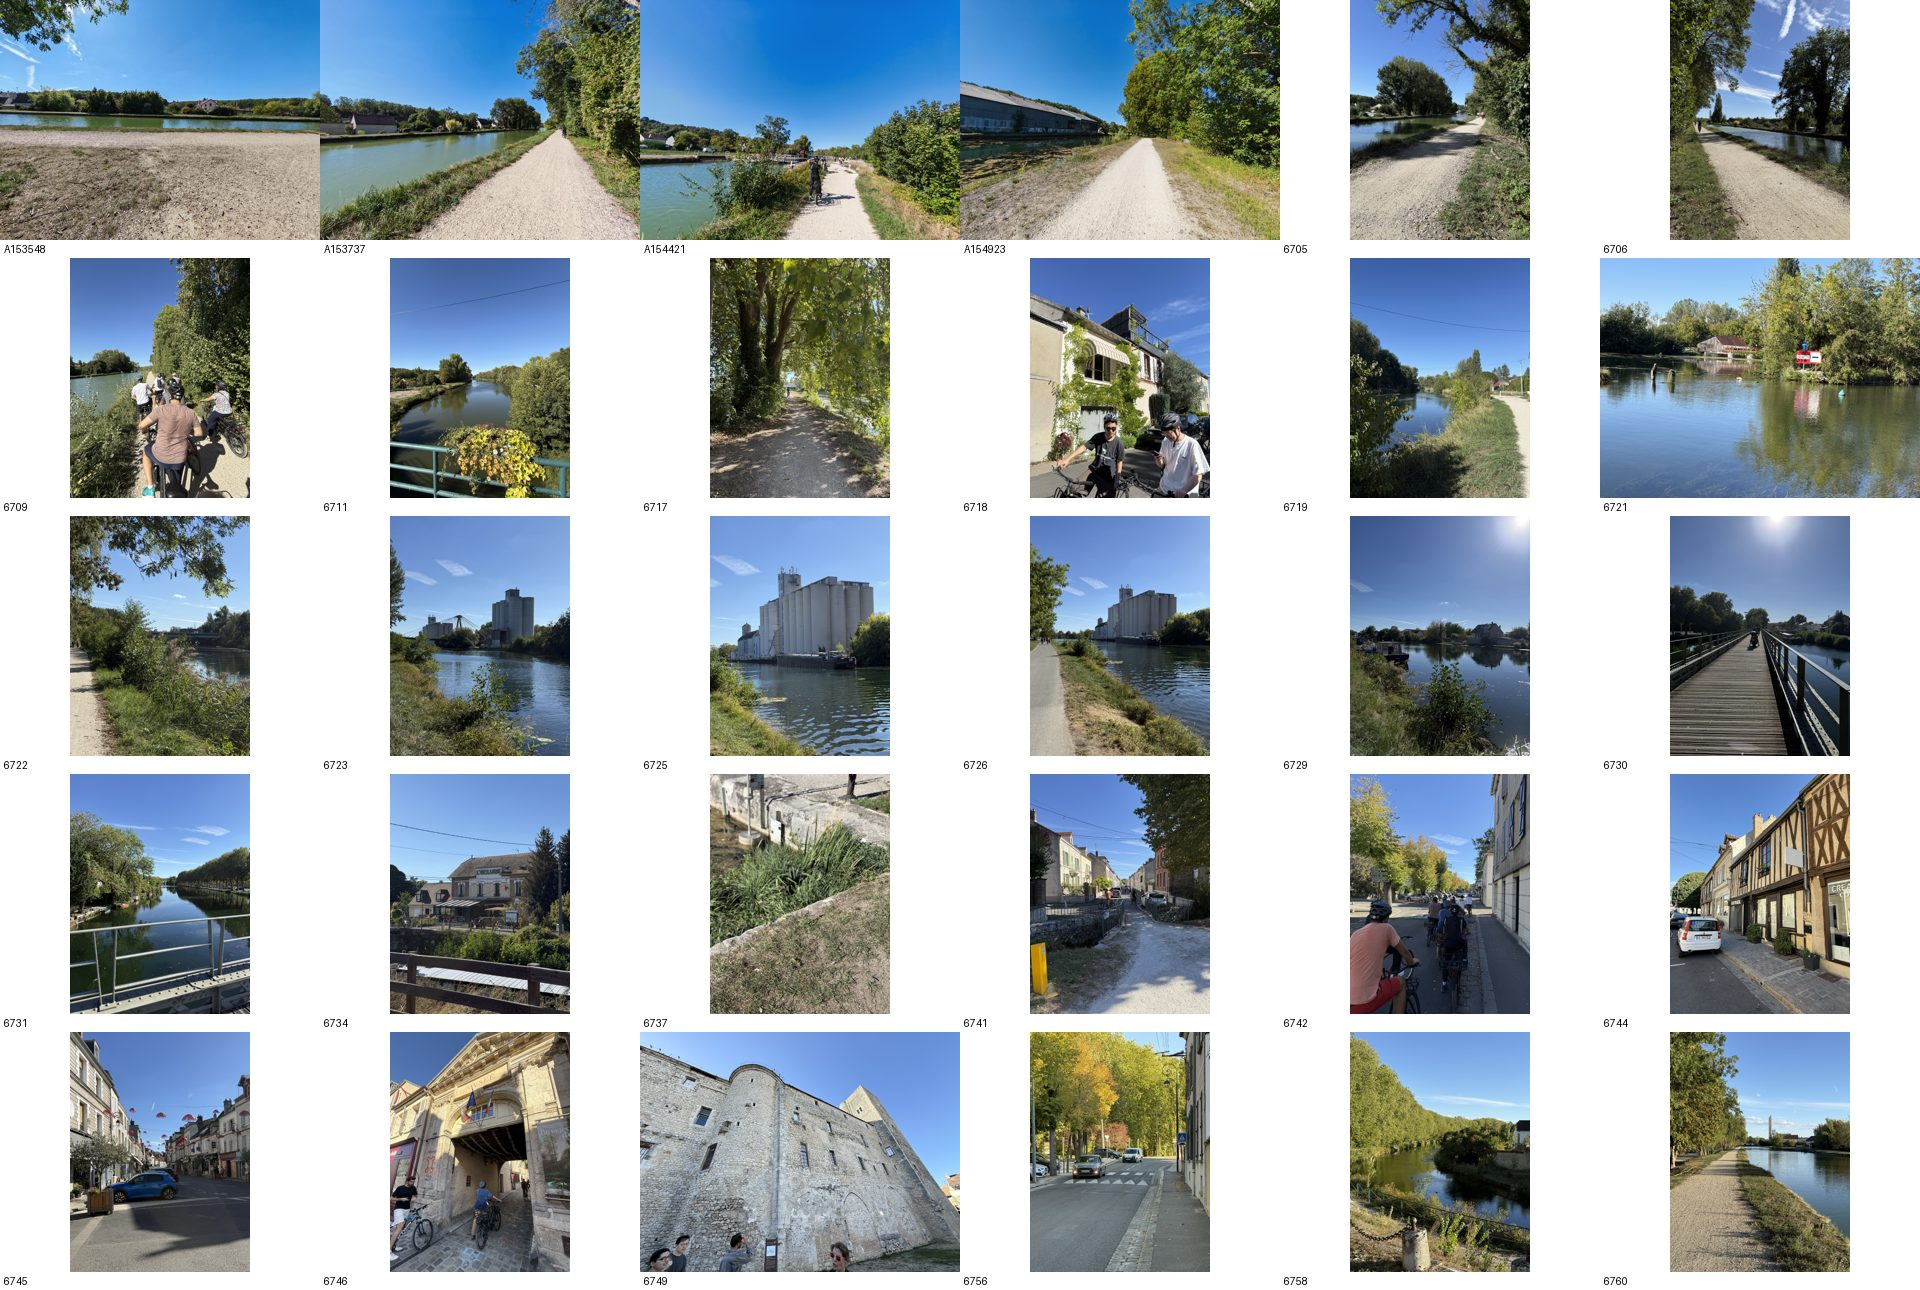
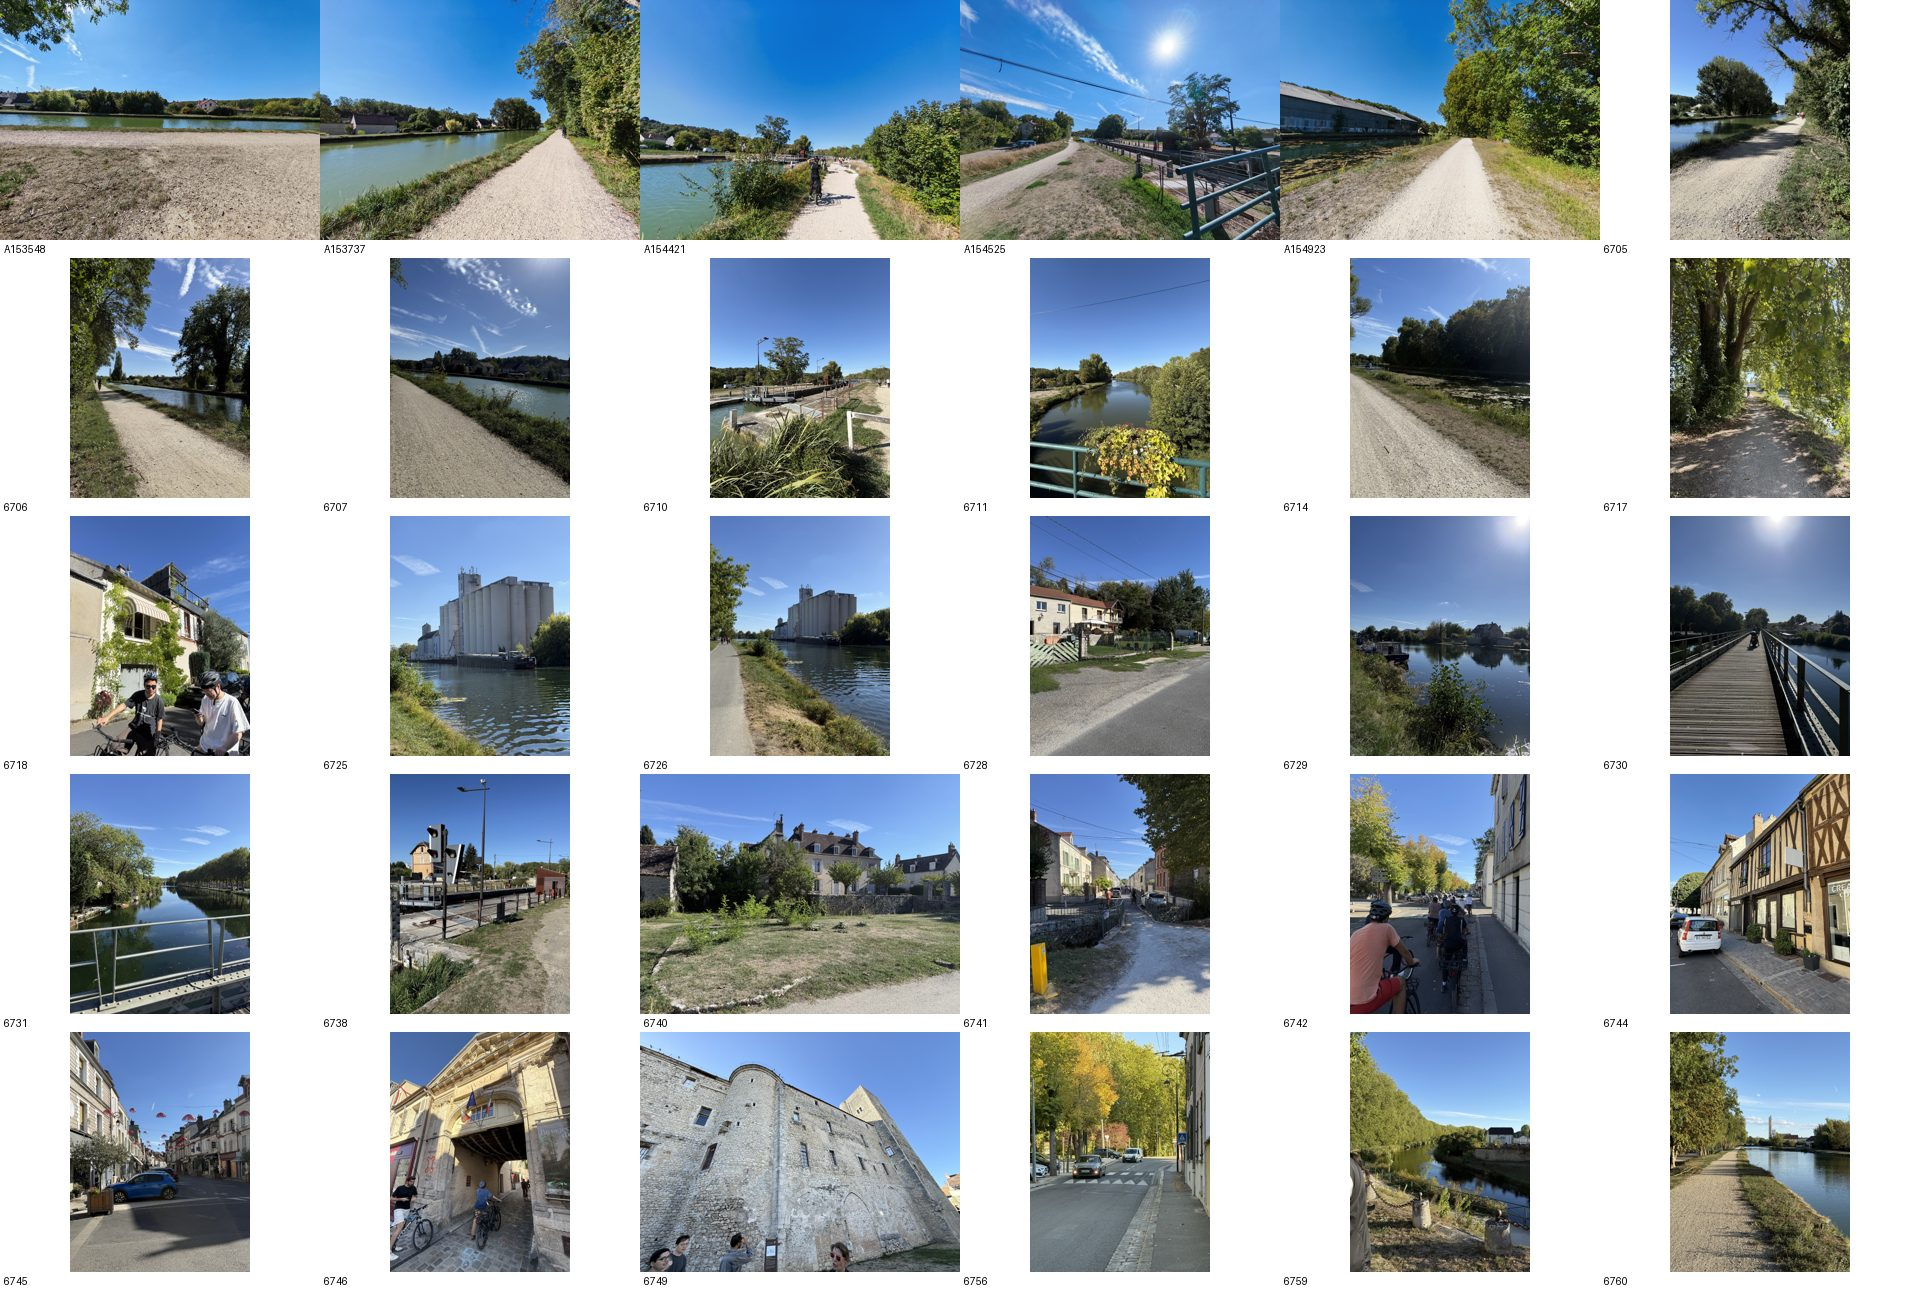
Update to the submitted photo set and refresh figures

diff --git a/README.md b/README.md
@@ -12,17 +12,12 @@ Ride of 15 September 2026, 15:35 → 18:48 along the canal — a 12.9 km loop, t
 
 ![The 30 submitted photos](analysis/contact-sheet.jpg)
 
-Selected from the 51 unique shots by exact dynamic programming over the ordered
-sequence, minimising the route's polyline simplification error at maximum vegetation.
+The 30 handed in, chosen to match the map below.
 
-| | route error | coverage < 150 m | vegetation |
+| | observed cells | coverage < 150 m | vegetation |
 |---|---:|---:|---:|
-| all 51 photos | 0.0 m | 55.0 % | 0.306 |
-| **the 30 submitted** | **8.2 m** | **53.2 %** | 0.329 |
-
-```
-python3 scripts/choose_v4.py 30 500 10
-```
+| all 51 unique photos | 93 | 55.0 % | 0.306 |
+| **the 30 submitted** | **78** | **46.9 %** | 0.288 |
 
 ---
 
@@ -42,8 +37,8 @@ filled.
 | `built` | 623 | 5.1 % |
 
 No photo in the set carries a compass heading, so the 50 m disk convention applies:
-the 30 photos observe **86 of the 12,221 cells — 0.7 % of the grid**. The remaining
-99.3 % comes from the prior.
+the 30 photos observe **78 of the 12,221 cells — 0.6 % of the grid**. The remaining
+99.4 % comes from the prior.
 
 ---
 
@@ -65,7 +60,7 @@ analysis/
   figures/               GPS track, fields of view, azimuths
 scripts/
   extract_meta.py        EXIF + measurements  ->  photo_metadata.json
-  choose_v4.py           selection by exact DP
+  choose_v4.py           route-based selection (exact DP)
   compare.py             metrics and Pareto front
   azimuth.py, synth.py   azimuth estimation, and its validation
 ```
